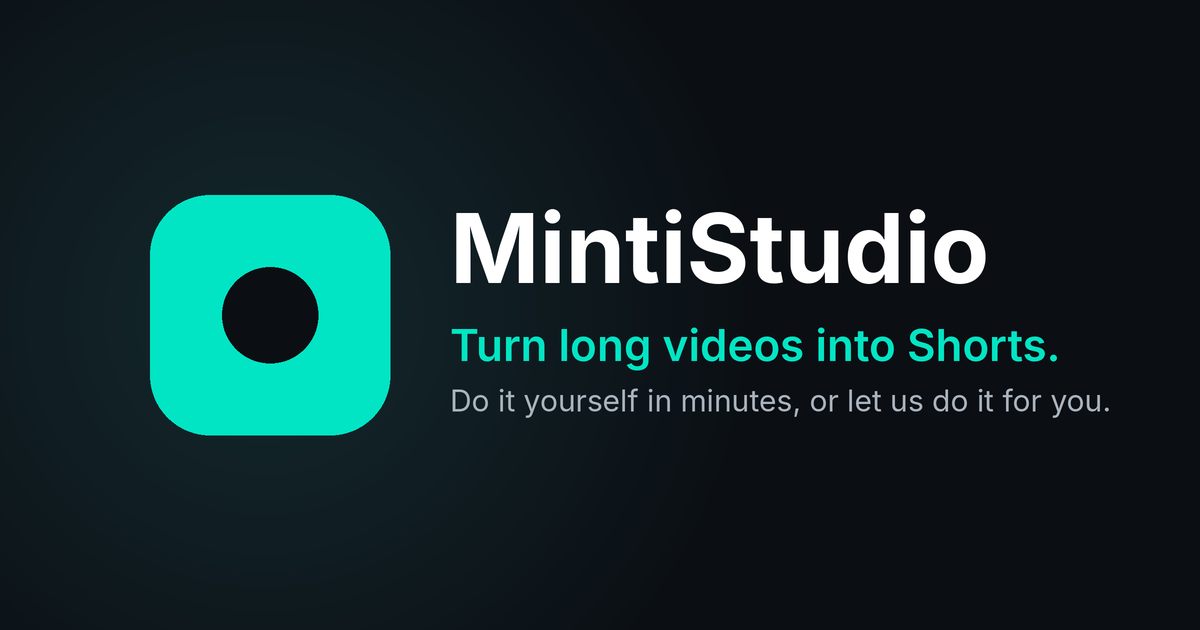
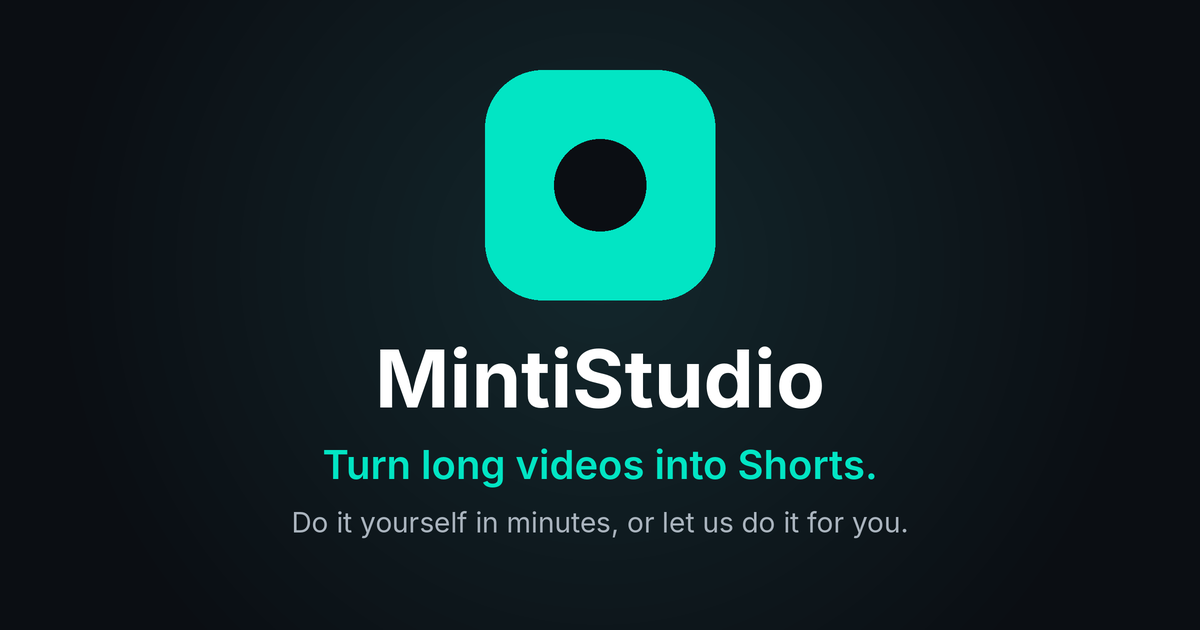
Refresh centered social preview image

Changed region(s): [[0.1233, 0.3016, 0.925, 0.7841], [0.37, 0.0905, 0.8325, 0.4825], [0.2467, 0.8143, 0.7708, 0.8444]]

diff --git a/app/video_shorts/templates/vs_marketing_base.html b/app/video_shorts/templates/vs_marketing_base.html
@@ -548,12 +548,12 @@
     {% endif %}
   {% endblock %}
   {% block social_image_meta %}
-    <meta property="og:image" content="https://mintistudio.com/video_shorts/static/img/og-image.png?v=2">
+    <meta property="og:image" content="https://mintistudio.com/video_shorts/static/img/og-image.png?v=3">
     <meta property="og:image:width" content="1200">
     <meta property="og:image:height" content="630">
     <meta property="og:image:alt" content="MintiStudio — Turn long videos into Shorts">
     <meta name="twitter:card" content="summary_large_image">
-    <meta name="twitter:image" content="https://mintistudio.com/video_shorts/static/img/og-image.png?v=2">
+    <meta name="twitter:image" content="https://mintistudio.com/video_shorts/static/img/og-image.png?v=3">
   {% endblock %}
 </head>
 
